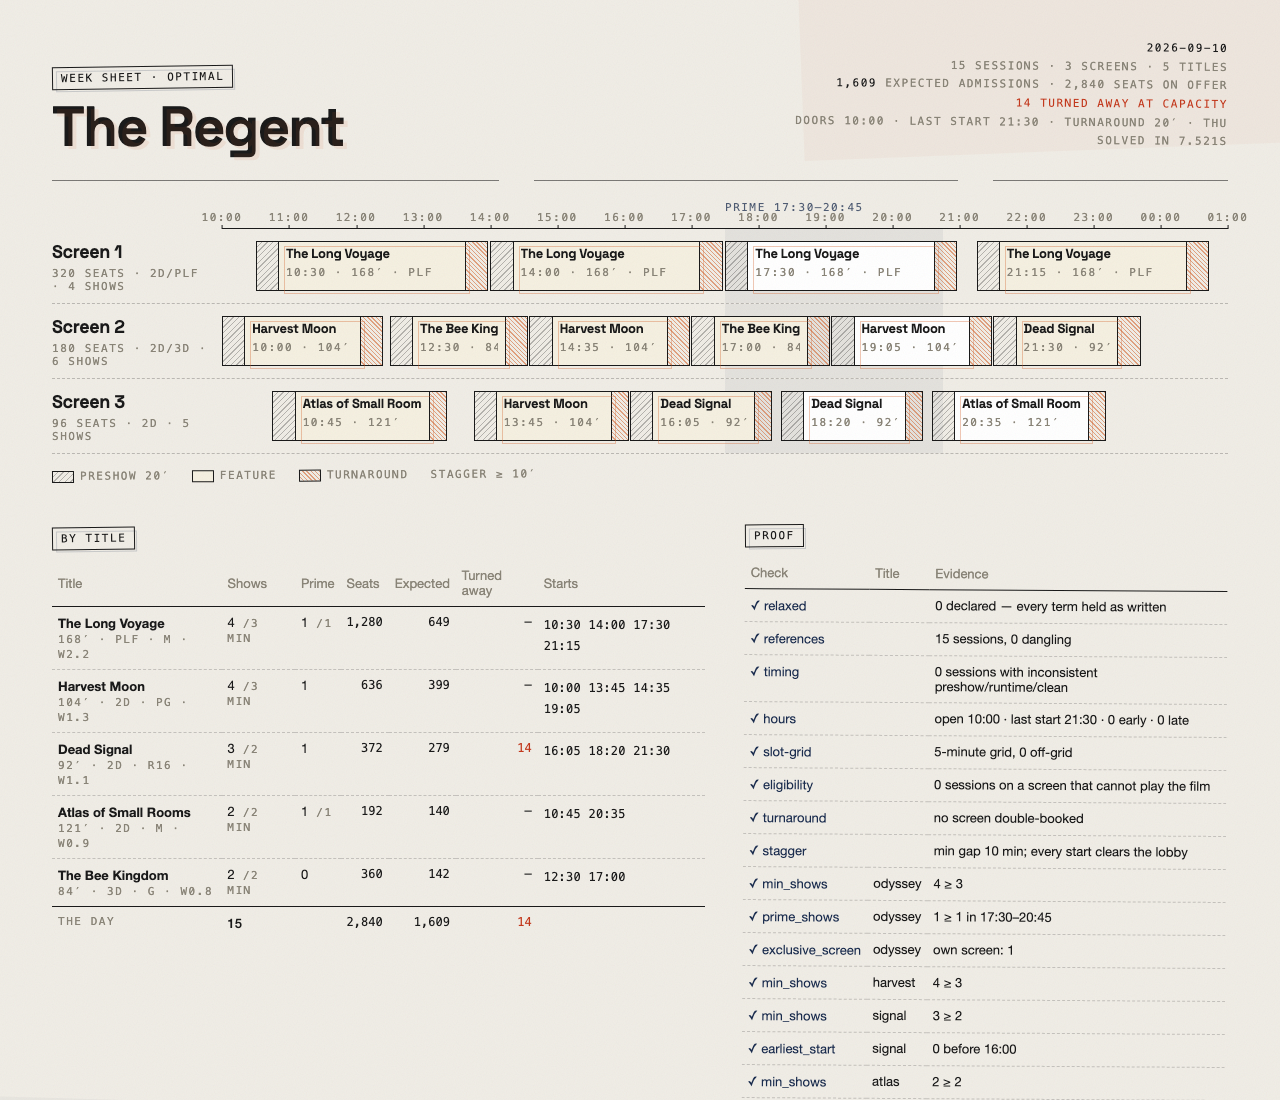
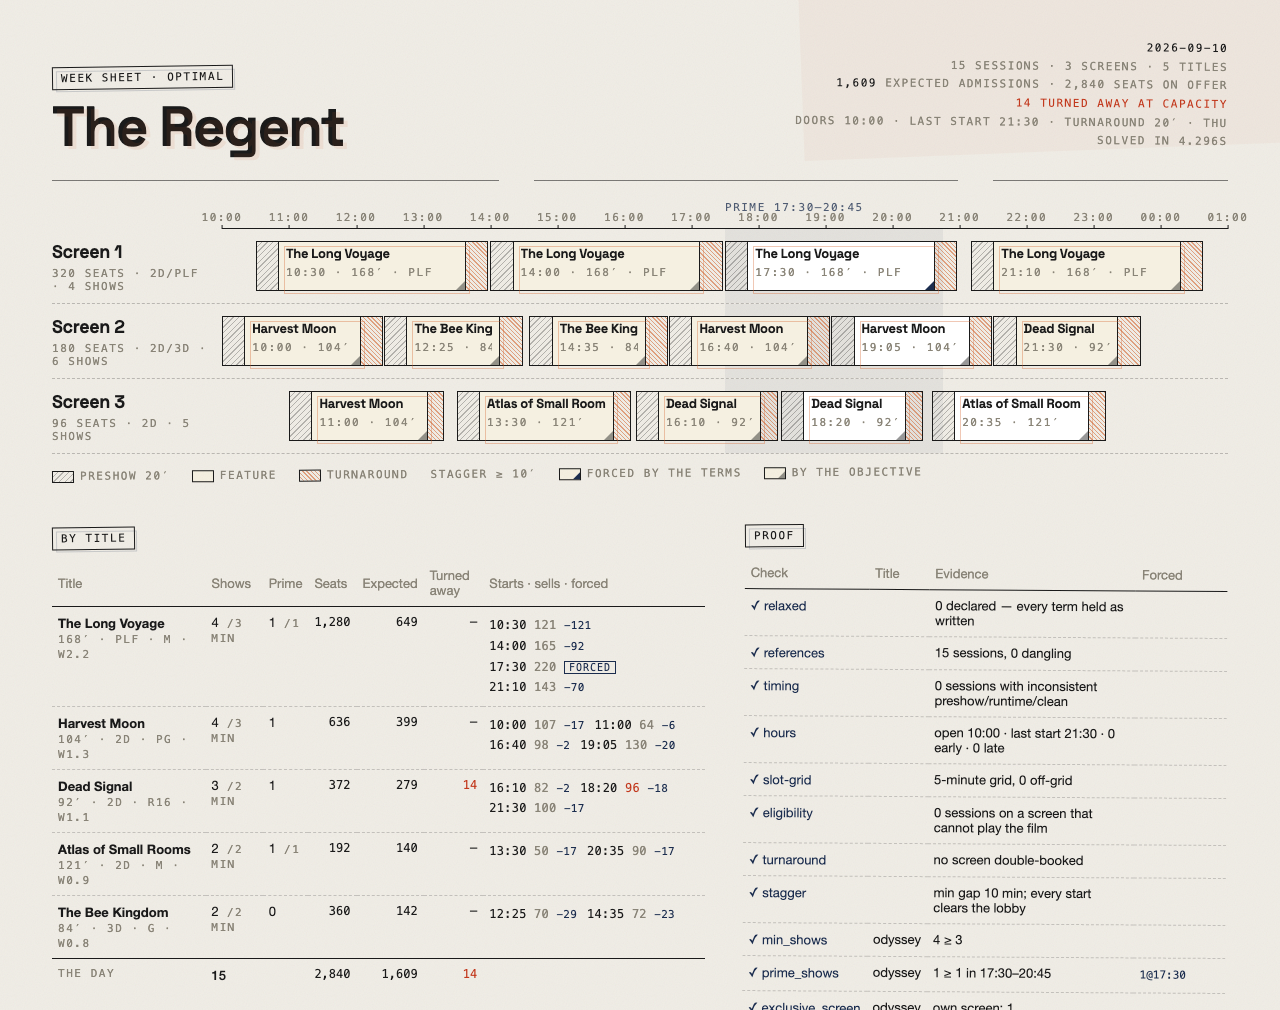
docs(pypi): the project page — docs/pypi.md is the package's readme: the hero re-shot with the why marks, the problem, thirty seconds to a grid, the refusal, the checker, the commands, the board's live address, the honest numbers; every image and link absolute and pinned to the release tag, and a te

diff --git a/tests/test_pypi_page.py b/tests/test_pypi_page.py
@@ -1,0 +1,43 @@
+"""The PyPI page (`docs/pypi.md`) is read away from the repository, so nothing in it may
+be relative, everything it points at in the repo must exist, and its images and links are
+pinned to the tag of the version being released. 0.1.0 shipped the GitHub README and
+every image on the project page was broken."""
+
+from __future__ import annotations
+
+import re
+import tomllib
+from pathlib import Path
+
+import turnaround
+
+ROOT = Path(__file__).resolve().parents[1]
+PAGE = (ROOT / "docs/pypi.md").read_text(encoding="utf-8")
+PROJECT = tomllib.loads((ROOT / "pyproject.toml").read_text())["project"]
+TARGETS = re.findall(r'(?:src="|\]\()([^")\s]+)', PAGE)
+
+
+def test_nothing_on_the_page_is_relative() -> None:
+    assert PROJECT["readme"] == "docs/pypi.md"
+    assert TARGETS
+    for t in TARGETS:
+        assert t.startswith("https://"), f"{t} would break on pypi.org"
+
+
+def test_everything_it_points_at_in_the_repo_exists_at_this_versions_tag() -> None:
+    tag = f"v{PROJECT['version']}"
+    assert turnaround.__version__ == PROJECT["version"]
+    repo = re.compile(
+        r"https://(?:raw\.githubusercontent\.com/brunohart/turnaround/|"
+        r"github\.com/brunohart/turnaround/blob/)([^/]+)/(.+)"
+    )
+    seen = 0
+    for t in TARGETS:
+        m = repo.match(t)
+        if not m:
+            continue
+        ref, path = m.groups()
+        assert ref in (tag, "main"), f"{t} is pinned to {ref}, not {tag}"
+        assert (ROOT / path).exists(), f"{path} is not in the repository"
+        seen += 1
+    assert seen >= 6

diff --git a/src/turnaround/__init__.py b/src/turnaround/__init__.py
@@ -4,4 +4,4 @@ A constraint solver for the cinema week: every screen, every session, every
 distributor term, and the turnaround between them.
 """
 
-__version__ = "0.1.0"
+__version__ = "0.1.1"

diff --git a/docs/pypi.md b/docs/pypi.md
@@ -1,0 +1,136 @@
+# turnaround
+
+**The showtime grid, solved — and proven.**
+A constraint solver for the cinema week: every screen, every session, every distributor term, and the turnaround between them.
+
+[![PyPI](https://img.shields.io/pypi/v/turnaround?color=D4622B&label=pypi)](https://pypi.org/project/turnaround/)
+[![Python](https://img.shields.io/pypi/pyversions/turnaround?color=1B2D4F)](https://pypi.org/project/turnaround/)
+[![CI](https://github.com/brunohart/turnaround/actions/workflows/ci.yml/badge.svg)](https://github.com/brunohart/turnaround/actions/workflows/ci.yml)
+[![License: MIT](https://img.shields.io/badge/license-MIT-1A1A1A)](https://github.com/brunohart/turnaround/blob/main/LICENSE)
+
+<img src="https://raw.githubusercontent.com/brunohart/turnaround/v0.1.1/docs/grids/regent.png" alt="The Regent's sheet: three screens, fifteen sessions on an hour ruler, each a preshow, a feature and an orange-hatched turnaround; the prime window washed navy; the by-title table and a proof table of green ticks" width="100%">
+
+*The Regent. Three screens, five titles, a PLF exclusive with a prime guarantee, a kids' title that must start by 17:00, a horror held to 16:00 or later. Proven `OPTIMAL` in about five seconds. Every check green.*
+
+## The problem
+
+Every Wednesday, in every cinema, someone builds next week's grid in a spreadsheet, holding the rules in their head: one thing per screen, twenty minutes to turn the room, no two starts inside ten minutes, and a distributor who was promised *three shows a day, one in prime, its own screen*.
+
+The grid they arrive at is one they can live with. It is not one they can **prove** — and the first anyone hears of a missed term is the distributor's report.
+
+`turnaround` takes the house, the slate and the terms as a JSON brief, and returns the grid **with its proof**. When the terms cannot all hold, it says so and gives you nothing.
+
+## Thirty seconds
+
+```bash
+uv tool install turnaround        # or: pipx install turnaround · pip install turnaround
+curl -O https://raw.githubusercontent.com/brunohart/turnaround/v0.1.1/examples/regent.json
+turnaround plan regent.json --html sheet.html
+```
+
+```text
+                         The Regent · OPTIMAL · 5.063s
+ Screen 1   10:40 The Long Voyage · 14:15 The Long Voyage · 17:45 The Long Voyage · 21:20 The Long Voyage
+ Screen 2   10:00 Harvest Moon · 12:25 The Bee Kingdom · 14:30 The Bee Kingdom · 16:35 Harvest Moon · …
+ Screen 3   10:10 Atlas of Small Rooms · 13:15 Harvest Moon · 16:00 Dead Signal · 18:25 Dead Signal · …
+
+ expected admissions 1,609 of 2,840 seats on offer · 14 turned away at capacity (Dead Signal)
+
+ ✓ turnaround         no screen double-booked
+ ✓ stagger            min gap 10 min; every start clears the lobby
+ ✓ min_shows          odyssey   4 ≥ 3
+ ✓ prime_shows        odyssey   1 ≥ 1 in 17:30–20:45
+ ✓ exclusive_screen   odyssey   own screen: 1
+ ✓ earliest_start     signal    0 before 16:00
+ ✓ latest_start       bees      0 after 17:00
+ ✓ admissions         1,608.6 claimed · 1,608.6 re-counted
+```
+
+`sheet.html` is the picture above: paper-first, prints as an A3 pin-up plus an A4 booth strip per screen, and turns into the booth strips on a phone.
+
+## The best thing it does is refuse
+
+Double the minimums and ask again:
+
+```text
+$ turnaround plan regent-overbooked.json
+INFEASIBLE — this cannot hold on its own: The Long Voyage min_shows 6 — the house has
+3 screens (1 PLF), doors 10:00 to last start 21:30 and a 17:30–20:45 prime window
+```
+
+Exit code 2. No grid. Not a grid with a distributor's minimum quietly dropped.
+
+Every term sits behind its own assumption literal, so an infeasible week comes back as the **smallest set of terms that cannot hold together**, in the trade's words. If you want a grid anyway, `--relax` drops terms one at a time, in a fixed order, out loud — and stamps every one of them on the sheet.
+
+<img src="https://raw.githubusercontent.com/brunohart/turnaround/v0.1.1/docs/grids/relaxed.png" alt="The relaxed sheet: the header stamped RELAXED with 4 terms given up in rust, and RELAXED stamped beside each failing check in the proof table" width="100%">
+
+## Two readings, not one
+
+A solver's `OPTIMAL` is a statement about a model — written by the same hand that might have misread the term. So every grid is re-verified by a **checker that shares no code with the solver**. Two readings that agree are evidence; one is an assertion.
+
+It also means you can check a grid you made by hand, before trusting the solver with anything:
+
+```text
+$ turnaround import --csv thursday.csv --brief regent.json --out hand.json
+$ turnaround check regent.json hand.json
+ ✗ turnaround       2: harvest@19:10 clears 21:34 but signal starts 21:30
+ ✗ stagger          min gap 10 min; 1 windows too busy, first 17:40 with 2 starts
+ ✗ earliest_start   signal   1 before 16:00
+ ✗ min_shows        atlas    1 ≥ 2
+ ✗ prime_shows      atlas    0 ≥ 1 in 17:30–20:45
+```
+
+Five slips in a Thursday a manager typed. None of them visible in a spreadsheet.
+
+## What is in the box
+
+| | |
+|---|---|
+| **`plan`** | Solve a day, a seven-day week, or a festival of up to 21 days. Exit 2 if the terms conflict, 4 if the clock ran out — which is never a reason to relax a term. |
+| **`check`** | Verify any grid — the solver's or yours — against its brief. |
+| **`explain`** | Why a session is where it is, and whether the terms or the objective *force* it. |
+| **`what-if`** | The day without a title, or under a changed policy, beside the day as it stands. |
+| **`diff`** | The Thursday re-plan: what moved, what came, what went. Symmetric and composable. |
+| **`terms`** | One page per title: every term, what was delivered day by day — the sheet you send the distributor. |
+| **`import` / `export`** | A four-column showtimes CSV in; calendars per screen, signage CSV and JSON out. |
+| **`render`** | The sheet, from any grid. |
+
+**The model.** [OR-Tools CP-SAT](https://developers.google.com/optimization/cp/cp_solver). One boolean per (screen, title, start) on a five-minute grid; an interval per session with the preshow and the turnaround *inside* the block under `NoOverlap`; floor staff as a cumulative; every distributor term a linear constraint. The objective is **expected admissions under capacity** — demand stated per daypart with the programmer's assumptions in words beside it, a second show in a daypart drawing less than the first, no room selling more seats than it holds.
+
+**Terms it speaks.** `min_shows` · `max_shows` · `prime_shows` · `exclusive_screen` · `exclusive_until` · `earliest_start` · `latest_start` · `screens` · `min_capacity` · `plf_lock` · `min_shows_per_week` · `prime_shows_per_week` · and for festivals `screenings`, a `guest` who can attend only some days, and a print that is only `available` for part of the run.
+
+<img src="https://raw.githubusercontent.com/brunohart/turnaround/v0.1.1/docs/grids/day-11-replan.png" alt="The re-plan sheet: dashed ghost outlines where twelve sessions used to be, one orange ADDED stamp, and a table of every change under the grid" width="100%">
+
+*`turnaround diff`: a moved session leaves a ghost where it was.*
+
+## The board
+
+No install at all: **[turnaround-tau.vercel.app](https://turnaround-tau.vercel.app)**. Drop a grid JSON on it, and its brief beside it, and the sheet is drawn in your browser. No server, no accounts, no tracking, nothing in the address — a content-security policy lets nothing leave the page. It draws and does nothing else; the proof stays the checker's.
+
+## Honest numbers
+
+The target for sixteen screens was written down before optimising — *one day in under 60 s, proven optimal or within 2 %* — and **it was missed**.
+
+| house | status | time | gap |
+|---|---|--:|--:|
+| The Regent — 3 screens, 5 titles, one day | `OPTIMAL` | 5 s | proven |
+| The Regent — a full week, titles holding their times | `OPTIMAL` ×7 | 22 s | proven |
+| A festival — 3 venues, 10 days, guests and prints in town | `OPTIMAL` ×10 | 6 s | proven |
+| The Palladium — 16 screens, 22 titles, one day | `FEASIBLE` | 60 s | **13.4 %** |
+
+Big houses get good, checkable grids that say *not proven best, gap 13 %* in their own header. The one inexact step the solver ever takes — a 10-minute start grid when the 5-minute one is too large — is printed on the grid, the CLI and the sheet. [The full bench](https://github.com/brunohart/turnaround/blob/v0.1.1/docs/bench.md), including the two clever reformulations that made things worse.
+
+## What it will not do
+
+- Relax a term silently. Ever.
+- Call a grid optimal it has not proven.
+- Forecast. Demand is what your brief states; the report says who is turned away under those numbers.
+- Colour-code films, carry a vendor's name, run a server, or send your grid anywhere.
+
+## Read on
+
+- [The full README](https://github.com/brunohart/turnaround/blob/v0.1.1/README.md) — the brief format, every term, the week, the booth's realities
+- [The answer was no](https://github.com/brunohart/turnaround/blob/v0.1.1/docs/post.md) — the essay: CP-SAT for exhibition scheduling, evidence first
+- [Twenty decisions](https://github.com/brunohart/turnaround/blob/v0.1.1/DECISIONS.md) and [the day-by-day log](https://github.com/brunohart/turnaround/blob/v0.1.1/docs/LOG.md) — built in fourteen days, each one ending with what was still rough
+
+Python 3.13+. MIT. Built by [designedbybruno](https://github.com/brunohart). Not affiliated with any cinema software vendor; the brief is the tool's own format.

diff --git a/README.md b/README.md
@@ -92,7 +92,7 @@ The showtime grid is a constraint problem wearing a spreadsheet. A screen holds 
 ## Install
 
 ```bash
-uv tool install turnaround      # once it is on PyPI
+uv tool install turnaround      # or: pipx install turnaround · pip install turnaround
 # or, from source
 git clone https://github.com/brunohart/turnaround && cd turnaround && uv sync
 uv run turnaround plan examples/regent.json --html sheet.html
@@ -167,7 +167,7 @@ A brief the tool cannot take is refused in sentences, not stack traces: *"Dead S
 
 <img src="docs/grids/day-11-replan.png" alt="The re-plan sheet: the Regent's hand-made Thursday against the solved one, dashed ghost outlines where twelve sessions were, one orange ADDED stamp, and the re-plan table under the grid" width="100%">
 
-**The board** (Day 12) is a static page in `board/`: drop a grid JSON on it, and its brief beside it, and it draws the sheet in your browser — the same ruler, the same three-strip block, the booth strips on a phone, a week or a festival day by day. No server, no accounts, no tracking, nothing in the address; a content-security policy that lets nothing leave and a test that holds it there. It draws and does nothing else: the right-hand panel is headed *The grid's claims*, not *Proof*, because the checker does not run in a browser (ADR-020). `scripts/board.sh --serve` runs it locally.
+**The board** (Day 12) is a static page in `board/`: drop a grid JSON on it, and its brief beside it, and it draws the sheet in your browser — the same ruler, the same three-strip block, the booth strips on a phone, a week or a festival day by day. No server, no accounts, no tracking, nothing in the address; a content-security policy that lets nothing leave and a test that holds it there. It draws and does nothing else: the right-hand panel is headed *The grid's claims*, not *Proof*, because the checker does not run in a browser (ADR-020). It is live at **[turnaround-tau.vercel.app](https://turnaround-tau.vercel.app)**; `scripts/board.sh --serve` runs it locally.
 
 <p><img src="docs/grids/day-12-board.png" alt="The board with the Regent's grid and brief dropped on it: the sheet drawn client-side, every block where the package puts it, the right-hand panel stamped The grid's claims" width="64%"> <img src="docs/grids/day-12-board-phone.png" alt="The board on a phone: the booth strips in place of the grid" width="33%"></p>
 
@@ -226,7 +226,7 @@ Built a day at a time from `PLAYBOOK.md`; each day ends with a green build, ever
 
 ## What is still rough
 
-No day of the sixteen is proven optimal in a minute, and the bound is probably the loose half of the gap. A week is solved day by day, so a week term reaches a day as a debt and the week as a whole is never optimised at once. A re-plan five minutes off everywhere reads as twelve moves. The board draws less than the package's sheet — no expected admissions, no re-plan, no terms sheets — and the Playwright pass that holds it to the package is not in CI. Demand is stated, never learned. It is not on PyPI yet.
+No day of the sixteen is proven optimal in a minute, and the bound is probably the loose half of the gap. A week is solved day by day, so a week term reaches a day as a debt and the week as a whole is never optimised at once. A re-plan five minutes off everywhere reads as twelve moves. The board draws less than the package's sheet — no expected admissions, no re-plan, no terms sheets — and the Playwright pass that holds it to the package is not in CI. Demand is stated, never learned. The board is live at [turnaround-tau.vercel.app](https://turnaround-tau.vercel.app); the package is on [PyPI](https://pypi.org/project/turnaround/), whose page is `docs/pypi.md` — shorter than this file, every link absolute and pinned to the release tag, and a test holds it so.
 
 ## Proof
 

diff --git a/docs/LOG.md b/docs/LOG.md
@@ -7,6 +7,7 @@ Newest first. One entry per slot.
 **CI, found and fixed the same day.** CI had not been green since Day 7: the Day 8, 9 and 10 runs were cancelled at GitHub's six-hour limit and Day 11's failed after five and a half. One cause. `run.sh` solves the sixteen at 90 s a day; the hosted runner has two to four cores where the bench machine gives CP-SAT eight workers, and found no first grid in the time: `UNKNOWN`. A day with no grid leaves its share of the week's terms to the days after it, so Monday to Wednesday then said `INFEASIBLE`, `plan` exited 2 for the lot, and `run.sh` — which reads 2 as "the terms conflict on purpose" — re-planned the week with `--relax`, dropping The Iron Tide's week terms one slow solve at a time for hours, and still had no grid. That is ADR-002 broken by an exit code: terms dropped because the machine was slow. **Fixed:** out of time is exit **4**, never 2, for a day, a week, a festival and a what-if (`_exit_without_a_grid`); a week with any `UNKNOWN` day exits 4 and says that a later day's `INFEASIBLE` may be the clock's; `run.sh` stops on 4; a test holds both codes (the sixteen at 0.2 s is 4 and offers no `--relax`, the overbooked Regent is 2 and does). CI skips the sixteen's solve (`TURNAROUND_SKIP=sixteen`; a benchmark is not a proof and belongs to the bench machine) and still runs the checker over its committed grid; the job has a 40-minute timeout and a newer push cancels an older run. 140 tests.
 
 Backlog-driven from today, and Linear is not reachable from this slot, so no issue could be taken; nothing scheduled. The day went to catching up Days 12 and 13 below.
+**The PyPI page, the same day.** 0.1.0 went up with the GitHub README as its description: every image relative and so broken on pypi.org, every link to `docs/` dead, no project links in the sidebar, "once it is on PyPI" in the install line, and nine screens of brief reference before anyone learned what the tool was for. **0.1.1** (metadata and page only; no code) ships `docs/pypi.md` instead: the hero sheet re-shot with the why marks, the Wednesday problem in three sentences, thirty seconds from `uv tool install` to a grid with real output, the `INFEASIBLE` refusal as its own section with a current relaxed sheet (`docs/grids/relaxed.png`), the checker and the five slips, the commands as one table, the board's live address, the honest numbers with the missed target, what it will not do, and four links out. Every image and link is absolute and pinned to `v0.1.1`; `tests/test_pypi_page.py` refuses a relative target, a target that is not in the repository, a pin to any other tag, and a `__version__` that disagrees with `pyproject.toml`. `[project.urls]` fills the sidebar; `py.typed` ships, since the package is mypy-strict. Rendered with PyPI's own `readme_renderer` and looked at before release; `twine check` passes. The board is live at turnaround-tau.vercel.app (`turnaround.vercel.app` was someone else's). A description cannot be edited on a release that exists, so the fix is a new one: `uv publish` for 0.1.1 is Bruno's.
 
 ## Day 13 — 2026-09-20 (scheduled Fri 19 Sep; slot did not fire) — The write-up
 
